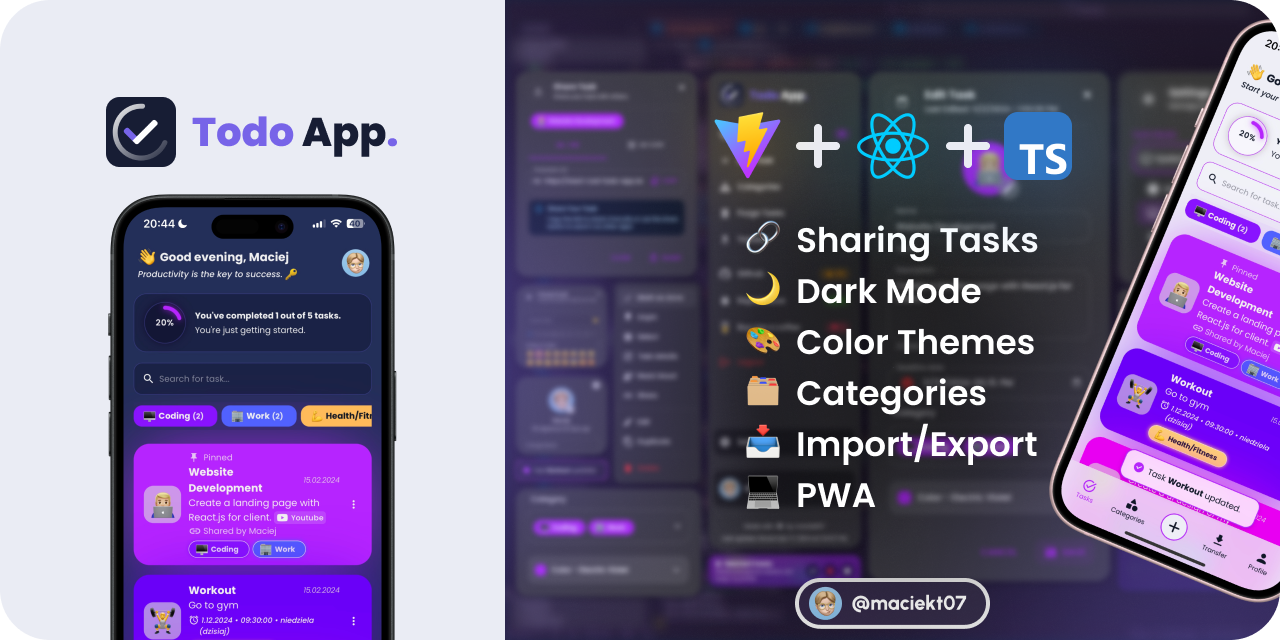
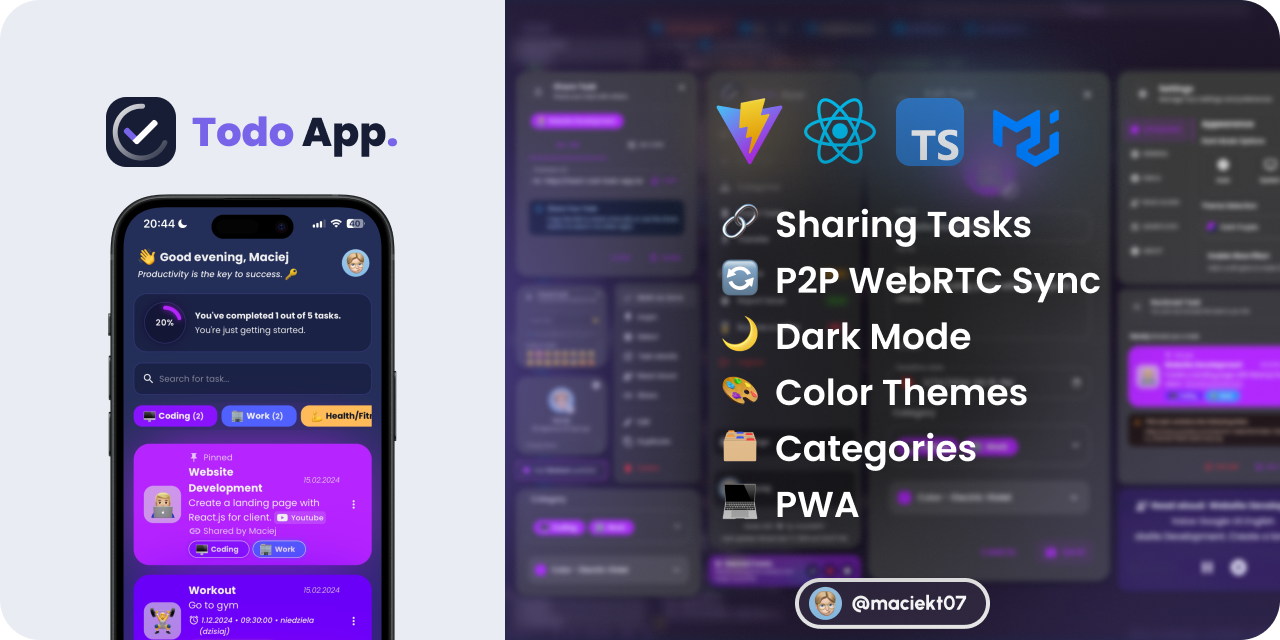
docs: update sync feature demo video in README

Changed region(s): [[0.5625, 0.0, 1.0, 1.0]]

diff --git a/README.md b/README.md
@@ -66,7 +66,10 @@ Code: [src/components/EmojiPicker.tsx](https://github.com/maciekt07/TodoApp/blob
 
 Securely sync all the data between devices using peer-to-peer WebRTC connections. Devices pair via QR code, and your data is transferred directly between them — only minimal server involvement for connection setup, with no data stored or processed in the cloud.
 
-<video src="https://github-production-user-asset-6210df.s3.amazonaws.com/85953204/448608266-02950a42-6ef8-4ab8-a908-47d236898ac9.mp4?X-Amz-Algorithm=AWS4-HMAC-SHA256&X-Amz-Credential=AKIAVCODYLSA53PQK4ZA%2F20250528%2Fus-east-1%2Fs3%2Faws4_request&X-Amz-Date=20250528T225841Z&X-Amz-Expires=300&X-Amz-Signature=7a7afe9749cd84a63e6096badbc0374b5183ca040b74ee5040fe17de4b76b9bf&X-Amz-SignedHeaders=host" controls></video>
+- Tasks and categories are auto-merged based on recent edits or deletions
+- For settings and other data, you choose which device to sync from
+
+<video src="https://github-production-user-asset-6210df.s3.amazonaws.com/85953204/459582059-1f2fd620-a64e-42e2-be4f-f17e07fba9a2.mp4?X-Amz-Algorithm=AWS4-HMAC-SHA256&X-Amz-Credential=AKIAVCODYLSA53PQK4ZA%2F20250626%2Fus-east-1%2Fs3%2Faws4_request&X-Amz-Date=20250626T185723Z&X-Amz-Expires=300&X-Amz-Signature=514e1513d883fab2b5b895d9075d0e0a522497e600e2577d1d11a341ab95aa6f&X-Amz-SignedHeaders=host" controls></video>
 
 ### 🎨 Color Themes & Dark Mode
 
